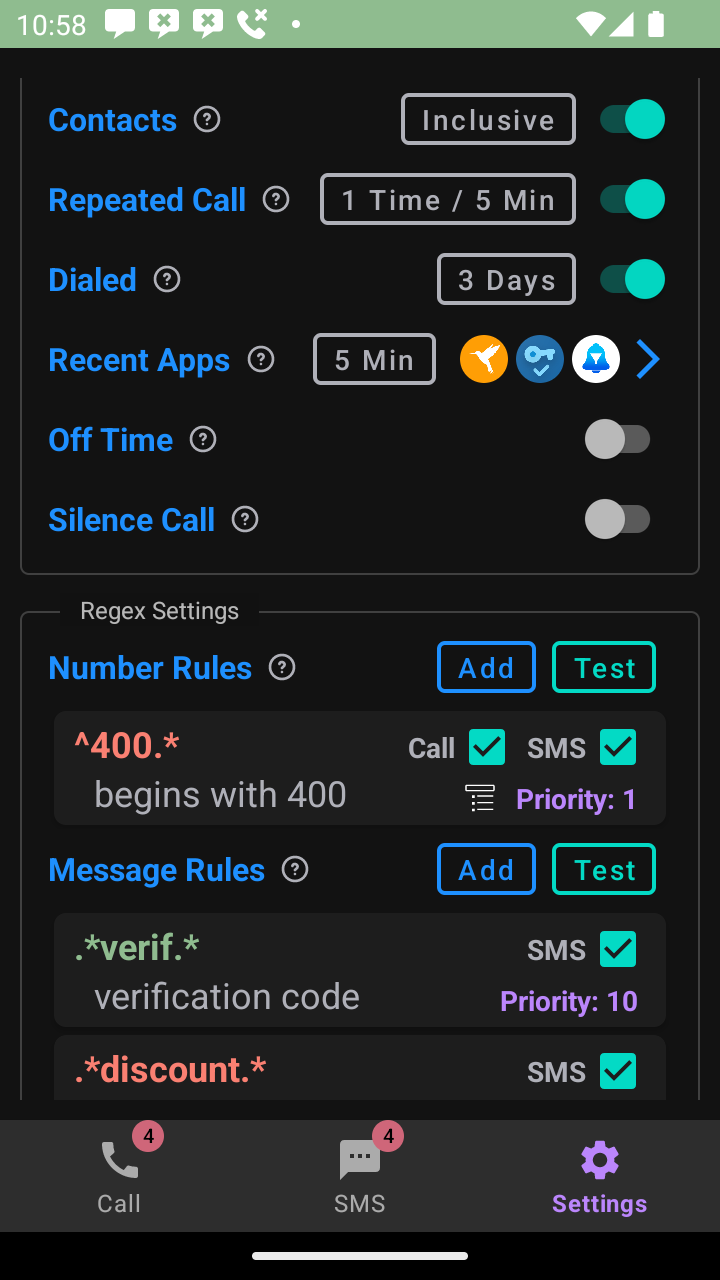
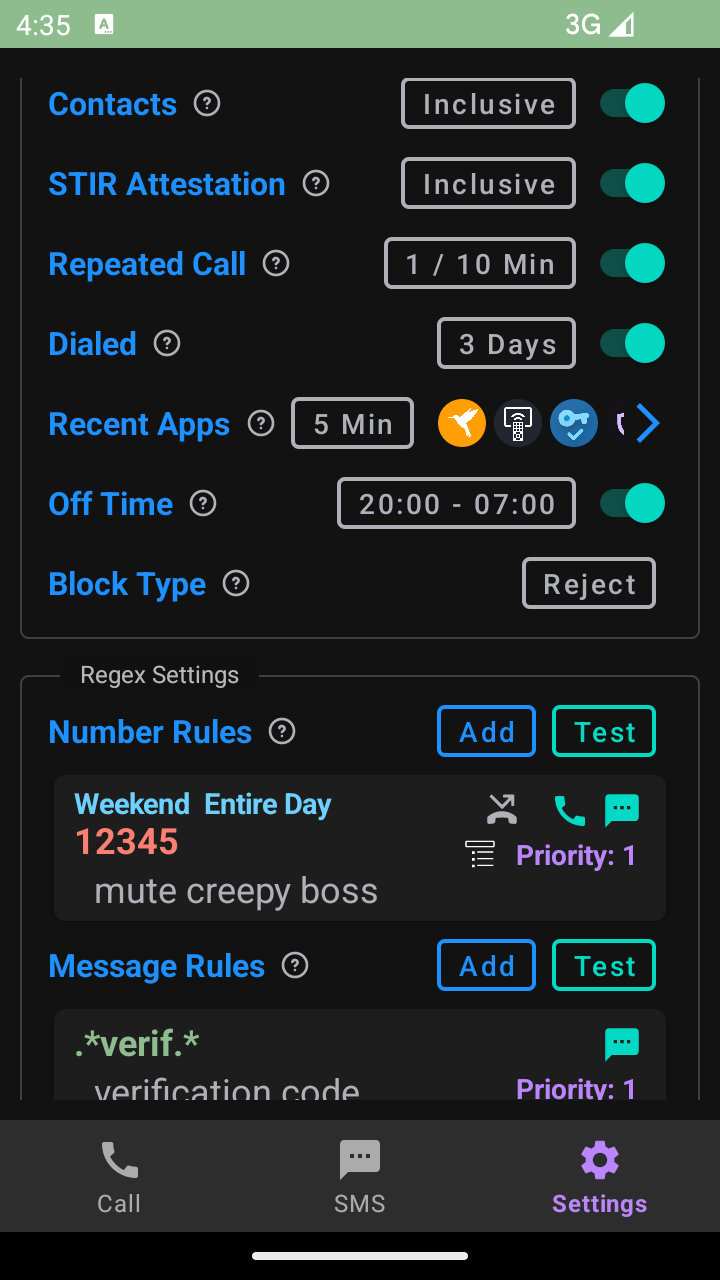
ui optimize

diff --git a/app/src/main/java/spam/blocker/ui/setting/PopupEditRuleFragment.kt b/app/src/main/java/spam/blocker/ui/setting/PopupEditRuleFragment.kt
@@ -5,7 +5,6 @@ import android.os.Bundle
 import android.view.LayoutInflater
 import android.view.View
 import android.view.ViewGroup
-import android.widget.AdapterView
 import android.widget.CheckBox
 import android.widget.ImageView
 import android.widget.LinearLayout
@@ -19,6 +18,7 @@ import com.dpro.widgets.WeekdaysPicker
 import com.google.android.material.button.MaterialButton
 import com.google.android.material.textfield.TextInputEditText
 import com.google.android.material.textfield.TextInputLayout
+import kotlinx.coroutines.selects.select
 import spam.blocker.R
 import spam.blocker.db.PatternRule
 import spam.blocker.def.Def
@@ -26,6 +26,7 @@ import spam.blocker.ui.util.MaterialInputRegexFlagsUtil
 import spam.blocker.ui.util.TimeRangePicker
 import spam.blocker.ui.util.UI.Companion.setupImageTooltip
 import spam.blocker.ui.util.UI.Companion.showIf
+import spam.blocker.ui.util.dynamicPopupMenu
 import spam.blocker.util.Flag
 import spam.blocker.util.Permission
 import spam.blocker.util.PermissionChain
@@ -71,9 +72,9 @@ class PopupEditRuleFragment(
         val row_type = view.findViewById<LinearLayout>(R.id.row_rule_type)
         val row_importance = view.findViewById<LinearLayout>(R.id.row_importance)
         val row_block_type = view.findViewById<LinearLayout>(R.id.row_block_type)
-        val spin_block_type = view.findViewById<Spinner>(R.id.spin_block_type)
+        val btn_block_type = view.findViewById<MaterialButton>(R.id.popup_btn_block_type)
         val help_importance = view.findViewById<ImageView>(R.id.popup_help_importance)
-        val spin_importance = view.findViewById<Spinner>(R.id.spin_importance)
+        val btn_importance = view.findViewById<MaterialButton>(R.id.btn_importance)
         val btn_schedule = view.findViewById<MaterialButton>(R.id.popup_btn_schedule)
         val switch_schedule = view.findViewById<SwitchCompat>(R.id.switch_schedule)
         val picker_weekday = view.findViewById<WeekdaysPicker>(R.id.picker_weekdays)
@@ -146,33 +147,51 @@ class PopupEditRuleFragment(
             showIf(row_block_type, checkedId == R.id.popup_radio_blacklist && forType == Def.ForNumber)
         }
         // Block type
+        val blockTypeLabels = ctx.resources.getStringArray(R.array.block_type_list).toList()
         showIf(row_block_type, init.isBlacklist && forType == Def.ForNumber)
-        spin_block_type.setSelection(init.blockType)
+        var selectedBlockType = init.blockType
+        fun updateBlockTypeButton() {
+            btn_block_type.text = blockTypeLabels[selectedBlockType]
+        }
+        updateBlockTypeButton()
         val permChain = PermissionChain(this,
             listOf(
                 Permission(Manifest.permission.READ_PHONE_STATE),
                 Permission(Manifest.permission.ANSWER_PHONE_CALLS)
             )
         )
-        spin_block_type.onItemSelectedListener = object : AdapterView.OnItemSelectedListener {
-            override fun onItemSelected(parent: AdapterView<*>?, view: View?, position: Int, id: Long) {
-                if (position == Def.BLOCK_TYPE_ANSWER_AND_HANG) {
+        btn_block_type.setOnClickListener {
+            dynamicPopupMenu(ctx, blockTypeLabels, btn_block_type) { clickedIdx ->
+                if (clickedIdx == Def.BLOCK_TYPE_ANSWER_AND_HANG) {
                     permChain.ask { allGranted ->
-                        if (!allGranted) {
-                            spin_block_type.setSelection(0)
+                        if (allGranted) {
+                            selectedBlockType = clickedIdx
                         }
+                        updateBlockTypeButton()
                     }
+                } else {
+                    selectedBlockType = clickedIdx
+                    updateBlockTypeButton()
                 }
             }
-
-            override fun onNothingSelected(parent: AdapterView<*>?) { }
         }
 
 
         // Importance
+        val importanceList = ctx.resources.getStringArray(R.array.importance_list).asList()
+        var selectedImportance = init.importance
         showIf(row_importance, init.isBlacklist && forType != Def.ForQuickCopy)
         setupImageTooltip(ctx, viewLifecycleOwner, help_importance, R.string.help_importance)
-        spin_importance.setSelection(init.importance)
+        fun updateButtonImportance() {
+            btn_importance.text = importanceList[selectedImportance]
+        }
+        updateButtonImportance()
+        btn_importance.setOnClickListener {
+            dynamicPopupMenu(ctx, importanceList, btn_importance) { clickedIdx ->
+                selectedImportance = clickedIdx
+                updateButtonImportance()
+            }
+        }
 
         // Schedule
         showIf(row_schedule, forType != Def.ForQuickCopy)
@@ -233,8 +252,8 @@ class PopupEditRuleFragment(
             if (radio_whitelist.isChecked) {
                 init.isBlacklist = false
             }
-            init.importance = spin_importance.selectedItemPosition
-            init.blockType = spin_block_type.selectedItemPosition
+            init.importance = selectedImportance
+            init.blockType = selectedBlockType
             init.schedule = schedule.serializeToStr()
 
             val err1 = Util.validateRegex(ctx, init.pattern)

diff --git a/app/src/main/java/spam/blocker/ui/setting/RuleAdapter.kt b/app/src/main/java/spam/blocker/ui/setting/RuleAdapter.kt
@@ -48,6 +48,7 @@ class RuleAdapter(
 
         holder.labelPattern.text = f.patternStrColorful(ctx)
         holder.labelDesc.text = f.description
+        showIf(holder.labelDesc, f.description.isNotEmpty())
         holder.imgApplyToCall.setColorFilter(if (f.isForCall()) teal else gray, PorterDuff.Mode.SRC_IN)
         holder.imgApplyToSms.setColorFilter(if (f.isForSms()) teal else gray, PorterDuff.Mode.SRC_IN)
 
